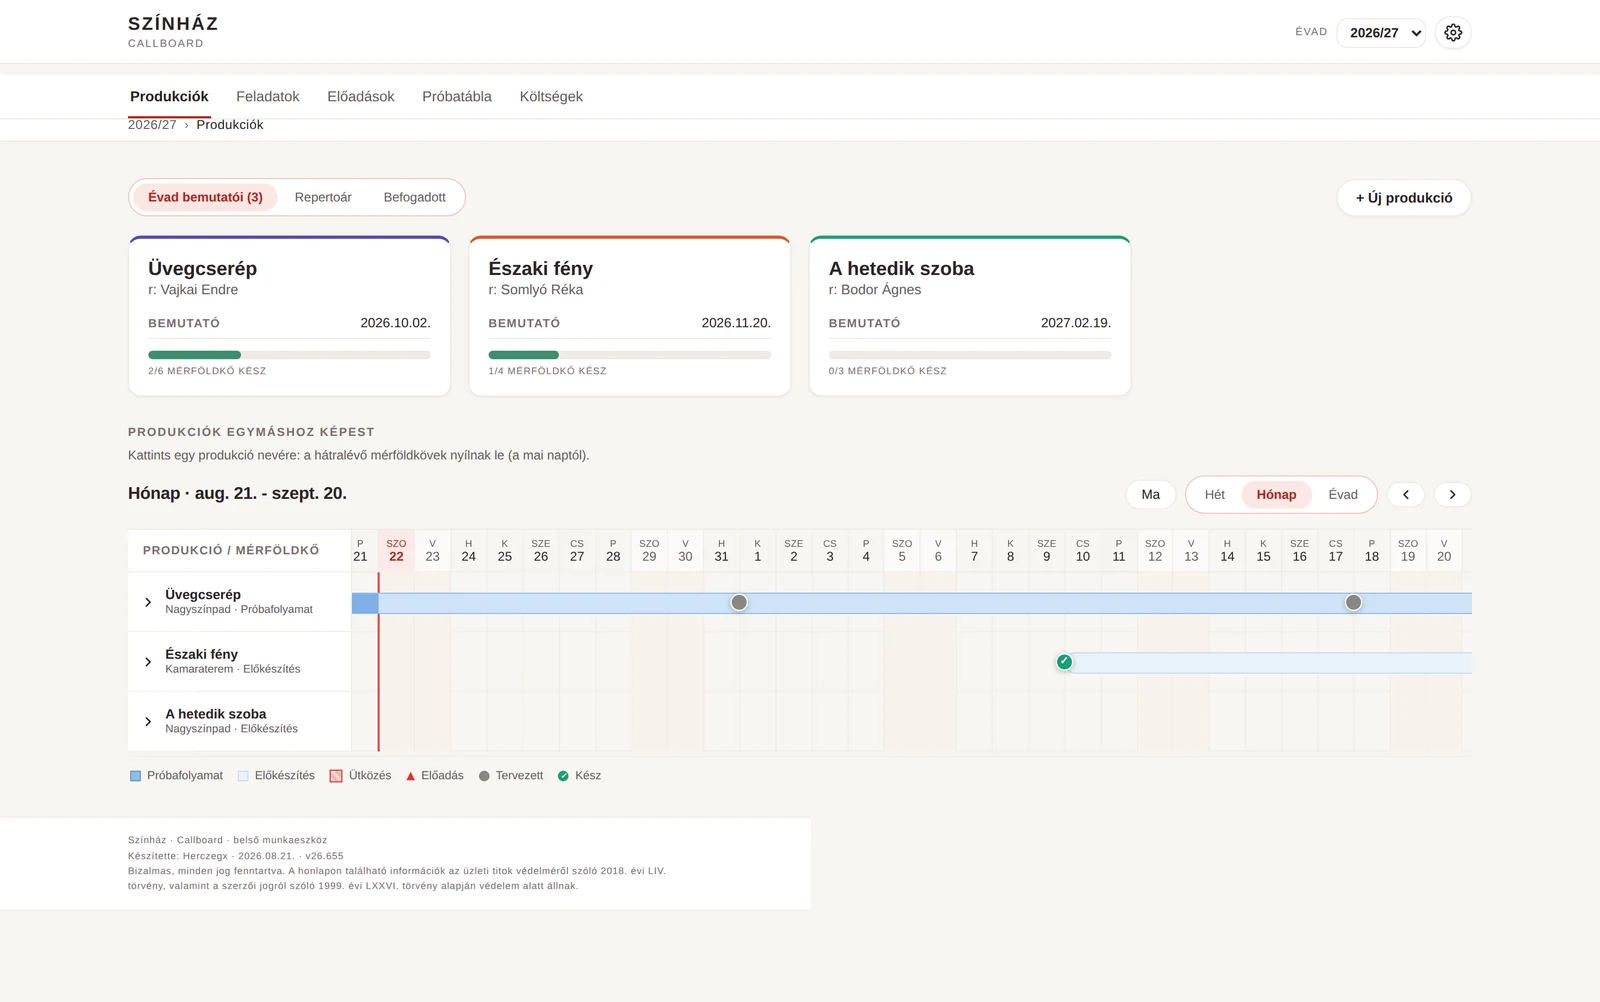
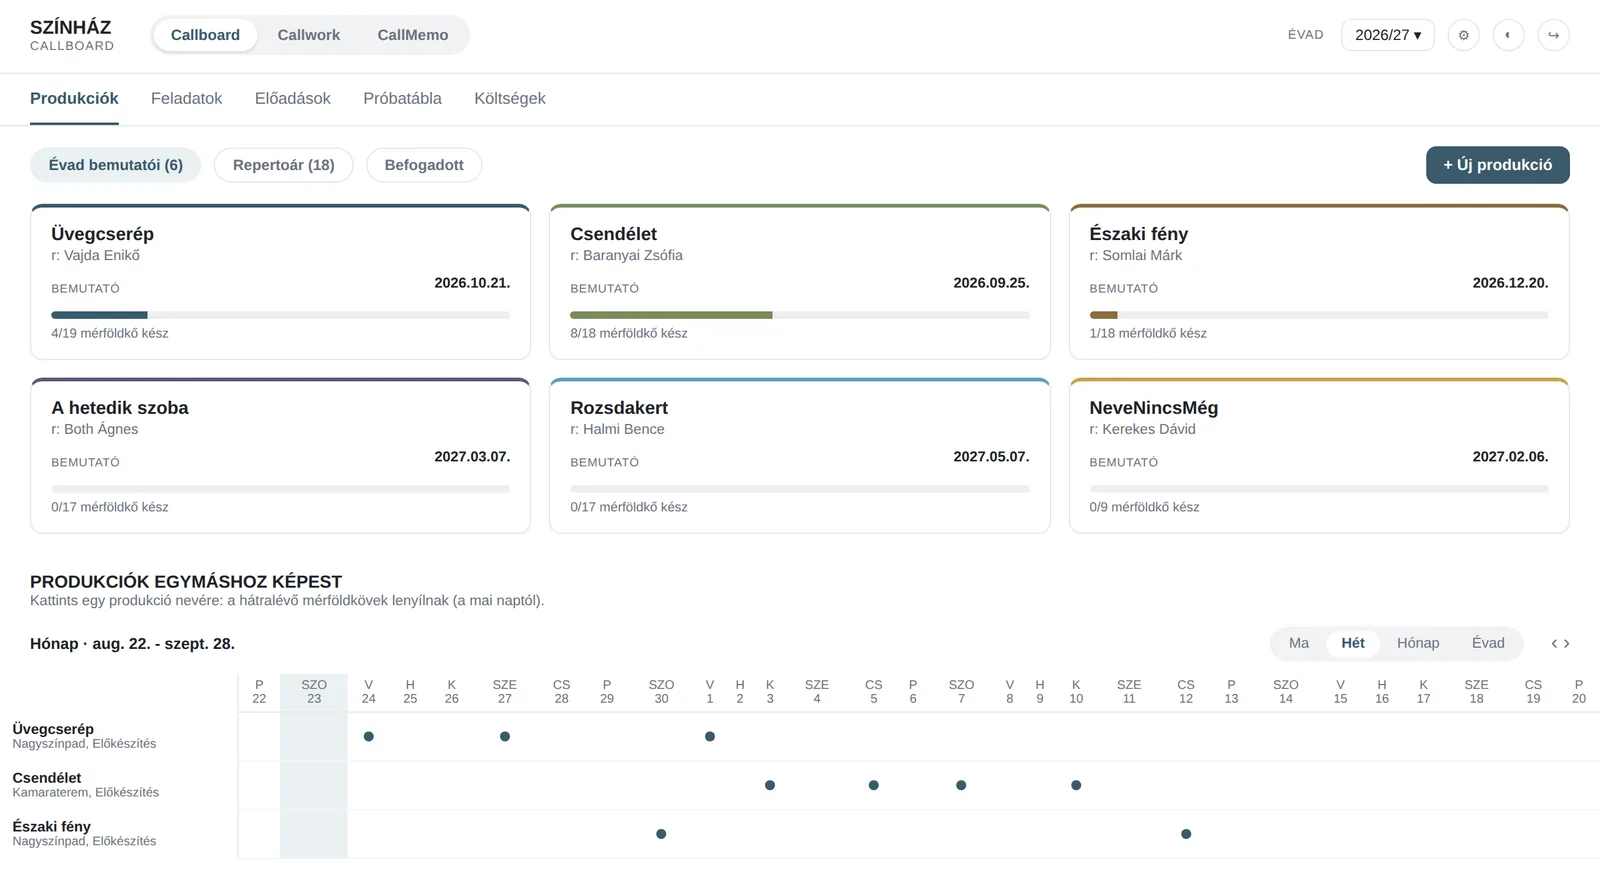
Callboard demo képek javítása: azonosítható részletek eltávolítása
Lecserélve a valós lábléc-adatot (verziószám, "Készítette: Herczegx") és a valós helyszíneket tartalmazó két demó kép, plusz három új kép (CallMemo évadterv, előadások helyszínnel, részletes költségkeret), mind kitalált tartalommal.

diff --git a/callboard.html b/callboard.html
@@ -63,8 +63,13 @@
       <p>A stábtag semmit nem telepít. A levélben kapott személyes linkje megnyílik a telefonján, és ha kiteszi a kezdőképernyőjére, attól a pillanattól úgy viselkedik, mint egy alkalmazás.</p>
 
       <figure style="margin-top:24px">
-        <img src="kepek/callboard_01_produkciok.webp" alt="Produkciós áttekintő: három bemutató, mérföldkövek és idővonal" width="1600" height="1002" loading="lazy" style="width:100%">
+        <img src="kepek/callboard_01_produkciok.webp" alt="Produkciós áttekintő: hat bemutató, mérföldkövek és összevető idővonal" width="1600" height="874" loading="lazy" style="width:100%">
         <figcaption>Produkciós áttekintő a demó példányról. Kitalált produkciók, kitalált nevek.</figcaption>
+      </figure>
+
+      <figure style="margin-top:24px">
+        <img src="kepek/callboard_03_evadterv.webp" alt="CallMemo évadterv: vezetői mérföldkövek területenként, idővonalon" width="1600" height="849" loading="lazy" style="width:100%">
+        <figcaption>CallMemo, a vezetői évadterv. Területenkénti mérföldkövek egy idővonalon.</figcaption>
       </figure>
     </div>
   </section>
@@ -79,8 +84,13 @@
       <p><strong>Értesítés a telefonra, tartalom nélkül.</strong> Ami a próbatáblán van, az nem megy át idegen szolgáltatók szerverein.</p>
 
       <figure style="margin-top:24px">
-        <img src="kepek/callboard_02_napi_tabla.webp" alt="A napi próbatábla egy napja: helyszín, idő, hívási kör, bútor és ruha" width="1600" height="507" loading="lazy" style="width:100%">
-        <figcaption>Napi próbatábla. A hívási idő névsorral, a bútor és a ruha a napi kiadvány része.</figcaption>
+        <img src="kepek/callboard_02_napi_tabla.webp" alt="Próbatábla: próba-idővonal és napi beosztás színpad és próbaterem szerint" width="1600" height="1005" loading="lazy" style="width:100%">
+        <figcaption>Próbatábla a demó példányról. A helyszínek általános elnevezéssel szerepelnek.</figcaption>
+      </figure>
+
+      <figure style="margin-top:24px">
+        <img src="kepek/callboard_06_eloadasok.webp" alt="Előadások havi nézete, helyszínnel és jelentés-gombbal" width="1600" height="859" loading="lazy" style="width:100%">
+        <figcaption>Havi műsorterv. A helyszín itt is csak Színpad 1./2./3. címkével szerepel.</figcaption>
       </figure>
 
       <figure style="margin-top:24px">
@@ -91,6 +101,11 @@
       <figure style="margin-top:24px">
         <img src="kepek/callboard_05_koltseg_produkcionkent.webp" alt="Költségek produkciónként: tervezett, tény, eltérés és százalék" width="1600" height="262" loading="lazy" style="width:100%">
         <figcaption>Produkciónkénti bontás: terv, tény, eltérés. Ami a keretből megmarad, az látszik.</figcaption>
+      </figure>
+
+      <figure style="margin-top:24px">
+        <img src="kepek/callboard_07_koltsegek_reszletes.webp" alt="Egy produkció részletes költségkerete tételenként: honorárium, jogdíj, díszlet" width="1600" height="996" loading="lazy" style="width:100%">
+        <figcaption>Egy produkció részletes költségkerete. Kitalált összegek.</figcaption>
       </figure>
     </div>
   </section>

diff --git a/en/callboard.html b/en/callboard.html
@@ -63,8 +63,13 @@
       <p>Crew members install nothing. The personal link in their email opens on their phone, and once they add it to the home screen, from that moment it behaves like an app.</p>
 
       <figure style="margin-top:24px">
-        <img src="../kepek/callboard_01_produkciok.webp" alt="Production overview with three premieres, milestones and a timeline" width="1600" height="1002" loading="lazy" style="width:100%">
+        <img src="../kepek/callboard_01_produkciok.webp" alt="Production overview with six premieres, milestones and a comparison timeline" width="1600" height="874" loading="lazy" style="width:100%">
         <figcaption>Production overview from the demo instance. Invented productions, invented names.</figcaption>
+      </figure>
+
+      <figure style="margin-top:24px">
+        <img src="../kepek/callboard_03_evadterv.webp" alt="CallMemo season plan: management milestones by department, on a timeline" width="1600" height="849" loading="lazy" style="width:100%">
+        <figcaption>CallMemo, the management season plan. Milestones by department on one timeline.</figcaption>
       </figure>
     </div>
   </section>
@@ -79,8 +84,13 @@
       <p><strong>Push notifications carry no content.</strong> Nothing from the rehearsal schedule passes through third-party servers.</p>
 
       <figure style="margin-top:24px">
-        <img src="../kepek/callboard_02_napi_tabla.webp" alt="One day of the daily rehearsal schedule: venue, time, call times, furniture and costume" width="1600" height="507" loading="lazy" style="width:100%">
-        <figcaption>Daily rehearsal schedule. Call times by name, with furniture and costume as part of the daily sheet.</figcaption>
+        <img src="../kepek/callboard_02_napi_tabla.webp" alt="Rehearsal schedule: rehearsal timeline and daily assignments by stage and rehearsal room" width="1600" height="1005" loading="lazy" style="width:100%">
+        <figcaption>Rehearsal schedule from the demo instance. Venues use generic labels.</figcaption>
+      </figure>
+
+      <figure style="margin-top:24px">
+        <img src="../kepek/callboard_06_eloadasok.webp" alt="Monthly performance schedule with venue and report button" width="1600" height="859" loading="lazy" style="width:100%">
+        <figcaption>Monthly programme. Venues appear only as Stage 1/2/3.</figcaption>
       </figure>
 
       <figure style="margin-top:24px">
@@ -91,6 +101,11 @@
       <figure style="margin-top:24px">
         <img src="../kepek/callboard_05_koltseg_produkcionkent.webp" alt="Costs per production: planned, actual, variance and percentage" width="1600" height="262" loading="lazy" style="width:100%">
         <figcaption>Per-production breakdown: planned, actual, variance. What is left over is visible.</figcaption>
+      </figure>
+
+      <figure style="margin-top:24px">
+        <img src="../kepek/callboard_07_koltsegek_reszletes.webp" alt="Detailed line-item budget for one production: fees, rights, set" width="1600" height="996" loading="lazy" style="width:100%">
+        <figcaption>Detailed line-item budget for one production. Invented figures.</figcaption>
       </figure>
     </div>
   </section>
